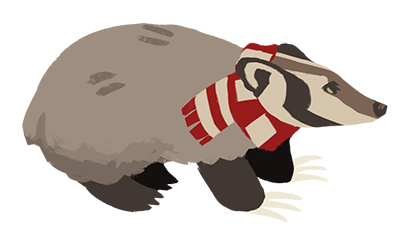
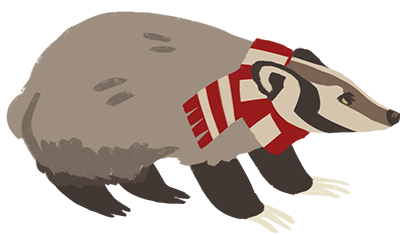
fixed teddy walk cycle

diff --git a/engine/data.js b/engine/data.js
@@ -37,7 +37,7 @@ tmp_level.familiar_walk_animcycle_id = "teddy_walk";
 tmp_level.familiar_idle_animcycle_id = "teddy_idle";
 tmp_level.familiar_act_animcycle_id = "teddy_idle";
 tmp_level.familiar_ww = 153;
-tmp_level.familiar_wh = 120;
+tmp_level.familiar_wh = 90;
 tmp_level.familiar_off_wx = 0;
 tmp_level.familiar_off_wy = -80;
 tmp_level.exit_animcycle_id = "exit";
@@ -79,7 +79,6 @@ tmp_level.map_reqs = [[
 tmp_level.familiar_reqs = [[
 "tunic.historicalsociety.cage.unlockdoor",
 ]];
-
 tmp_animcycle = new animcycle();
 tmp_animcycle.id = "archivephotos1";
 tmp_animcycle.fqid = "tunic.archivephotos1";
@@ -4305,10 +4304,9 @@ tmp_animcycle.fqid = "tunic.teddy_walk";
 {
 tmp_animcycle.w = 0;
 tmp_animcycle.h = 0;
-tmp_animcycle.frame_t = 10;
+tmp_animcycle.frame_t = 4;
 tmp_animcycle.offset_t = 0;
 tmp_animcycle.loop = 1;
-
 tmp_animcycle.frame_files = [];
 tmp_animcycle.frames = [];
 tmp_animcycle.frame_files.push("assets/data/levels/tunic/animcycles/teddy_walk/0.png");

diff --git a/src/scenes/data.js b/src/scenes/data.js
@@ -37,7 +37,7 @@ tmp_level.familiar_walk_animcycle_id = "teddy_walk";
 tmp_level.familiar_idle_animcycle_id = "teddy_idle";
 tmp_level.familiar_act_animcycle_id = "teddy_idle";
 tmp_level.familiar_ww = 153;
-tmp_level.familiar_wh = 120;
+tmp_level.familiar_wh = 90;
 tmp_level.familiar_off_wx = 0;
 tmp_level.familiar_off_wy = -80;
 tmp_level.exit_animcycle_id = "exit";
@@ -79,7 +79,6 @@ tmp_level.map_reqs = [[
 tmp_level.familiar_reqs = [[
 "tunic.historicalsociety.cage.unlockdoor",
 ]];
-
 tmp_animcycle = new animcycle();
 tmp_animcycle.id = "archivephotos1";
 tmp_animcycle.fqid = "tunic.archivephotos1";
@@ -4305,10 +4304,9 @@ tmp_animcycle.fqid = "tunic.teddy_walk";
 {
 tmp_animcycle.w = 0;
 tmp_animcycle.h = 0;
-tmp_animcycle.frame_t = 10;
+tmp_animcycle.frame_t = 4;
 tmp_animcycle.offset_t = 0;
 tmp_animcycle.loop = 1;
-
 tmp_animcycle.frame_files = [];
 tmp_animcycle.frames = [];
 tmp_animcycle.frame_files.push("assets/data/levels/tunic/animcycles/teddy_walk/0.png");
